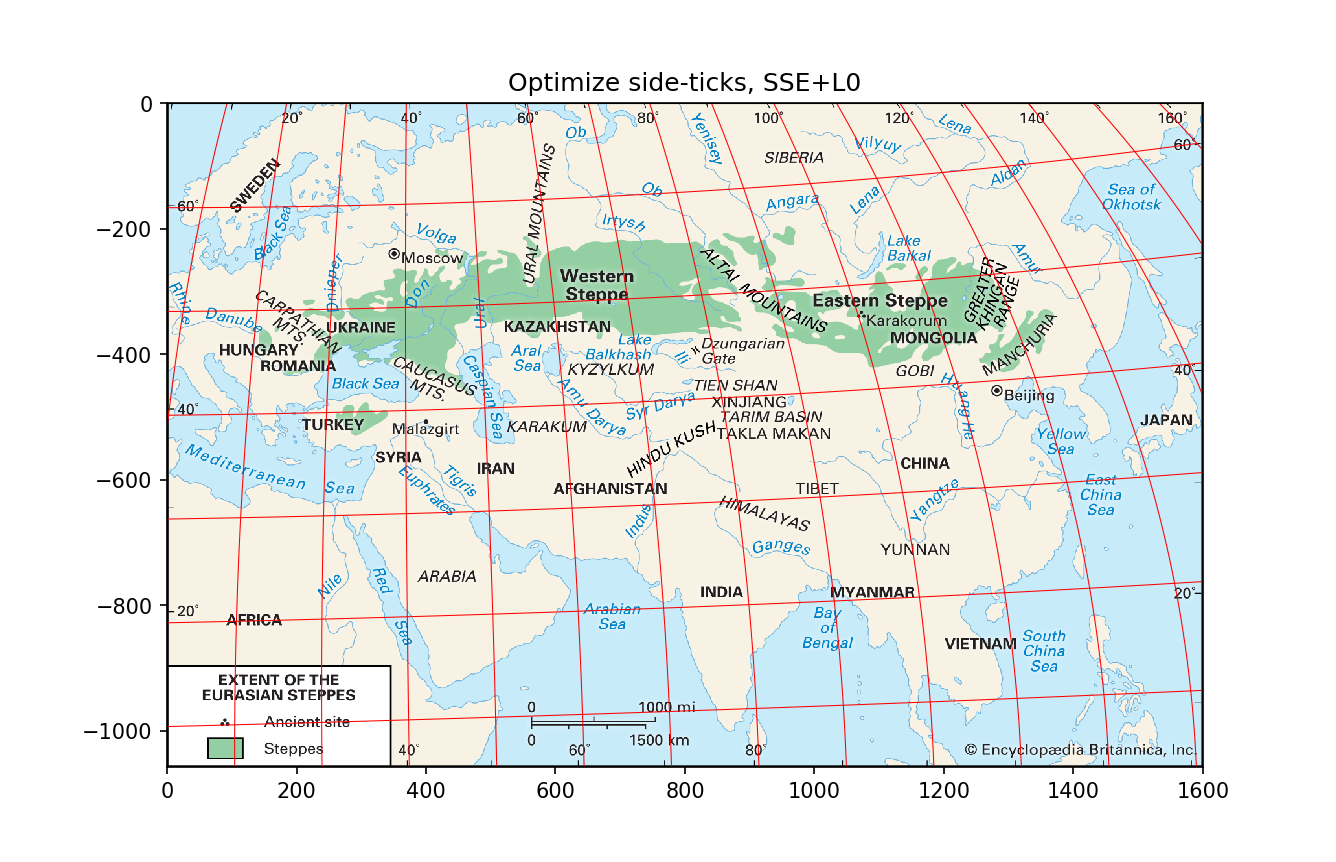
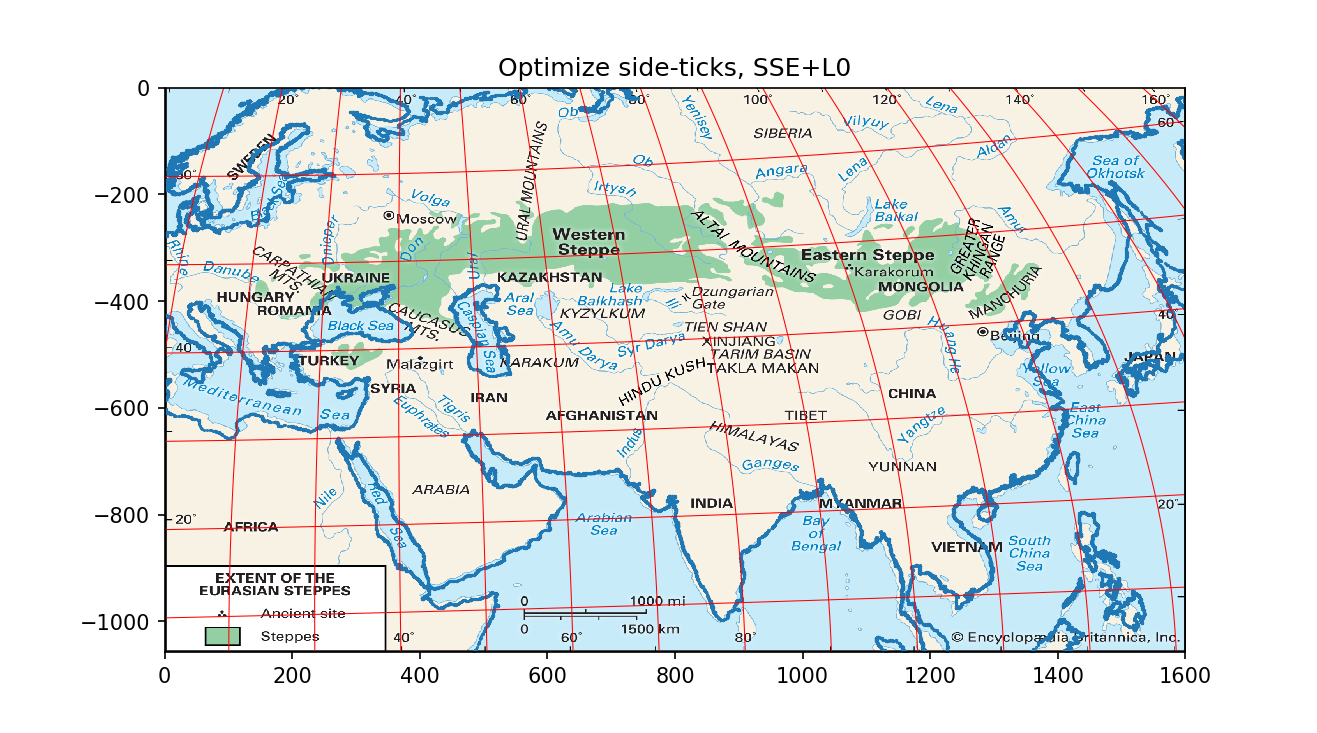
Coastline

Changed region(s): [[0.0623, 0.06, 0.9339, 0.9304], [0.3113, 0.9004, 0.3424, 0.9304]]

diff --git a/steppe.py b/steppe.py
@@ -414,8 +414,13 @@ if __name__ == "__main__":
     ### Decide what you want to try to fit
     ### CUSTOMIZE ME!!!
     fit_proj = 'wintri'
+
     srsParams = 'lon_0,lat_1'
     fit_init = [47., 0]
+
+    srsParams = 'lon_0'
+    fit_init = [47.]
+
     _, _, p, Ahat, that, ax = searchsolution2xy(fit_proj, srsParams, fit_init)
 
     # Load image
@@ -486,16 +491,23 @@ if __name__ == "__main__":
         myim(np.arange(width), -np.arange(height), im)
         plt.gca().invert_yaxis()
         plt.title(title)
+
+        (shapex, shapey) = shape2pixels(shapeproj, p, shape, A, b)
+        s = plt.plot(shapex, shapey, marker='.', markersize=1.0, linestyle='none')
+
         for l in range(0, 170, 10):
             plt.plot(*ll2pix(np.ones(100) * l, np.linspace(0, 70, 100), A, b, p), 'r', lw=.5)
         for l in range(10, 70, 10):
             plt.plot(*ll2pix(np.linspace(0, 160, 100), np.ones(100) * l, A, b, p), 'r', lw=.5)
+        plt.xlim([0, width])
+        plt.ylim([-height, 0])
 
     drawImWithGraticules(Afine2, bfine2, pfine2, 'Optimize side-ticks, SSE+L0')
     drawImWithGraticules(Afine, bfine, pfine, 'Optimize side-ticks, just SSE')
     drawImWithGraticules(Ahat, that, p, 'Optimize GCPs only, blue dots=GCPs')
     s = plt.scatter(x, y, c='b')
 
-    plt.show(block=True)
     # Manual interpolation to equirectangular projection. Commented because it doesn't work that great.
     # res, outLon, outLat = manualinterpolate(im, Afine2, bfine2, pfine2, degPerPix=0.05, fname='outfine.png')
+
+    input('All done, hit enter when done')

diff --git a/README.md b/README.md
@@ -50,18 +50,26 @@ Status
 
 The parameter fitting aspect of the project is reasonably flexible in fitting any Pyproj-supported projection to be fit with as few or as many unknown parameters. The system also estimates an arbitrary 2D affine transform (scale, rotation, shear, shift, etc.).
 
-After trying several dozen projections, I found that the Winkel Tripel projection gives the best accuracy in terms of error between control and fitted points.
+After trying several dozen projections, I found that the Winkel Tripel projection gives the best accuracy in terms of error between control and fitted points. Below we show the 31 GCPs (included in this repo as `gcp.txt`), the graticules for the projection estimated from them, and the coastline.
 
 ![Winkel tripel, 2-parameter fit of The Steppe map with GCPs](wintri-lon_0-lat_1.png)
 
-We can boost the accuracy of the estimate using the ticks on the edges of the map. We use the above results (from processing just the 31 GCPs) to initialize the search for the 2-parameter Winkel Tripel that best matches these ticks. This reduces the worst-case error between lat/lon values from 4.5 degrees (above) to less than 1.1 degrees:
+This map's SRS:
+```
++units=m +proj=wintri +lon_0=46.08057435794861 +lat_1=36.64778081811434
+```
+
+Note how despite putting several GCPs around the Mediterranean I couldn't beat back the distortion there.
+
+We can boost the accuracy of the estimate using the ticks on the edges of the map (given in `ticks.points` in this repo). We use the above estimate to tweak the projection to matches these ticks. This reduces the worst-case error between lat/lon values from 4.5 degrees (above) to less than 1.1 degrees:
 
 ![Winkel tripel, 2-parameter fit of The Steppe map with GCPs and ticks](wintri-lon_0-lat_1-fine.png)
 
-The best SRS I can come up with is
+This map's SRS:
 ```
 +units=m +proj=wintri +lon_0=43.13683225434687 +lat_1=39.869043318205726
 ```
+But note how, while the graticules are better in the second image, there's worse distortion in the coastline.
 
 The weird thing is, if I fit just a single-parameter Winkel Tripel (just `lon_0`), I get a different distribution of errors but the worst-case deviation is still around 1.1 degrees. 😡. So there's *something* weird going on with this map—either it's not Winkel Tripel, or it's hand-drawn, or it's doing some weird tangent projection.
 
